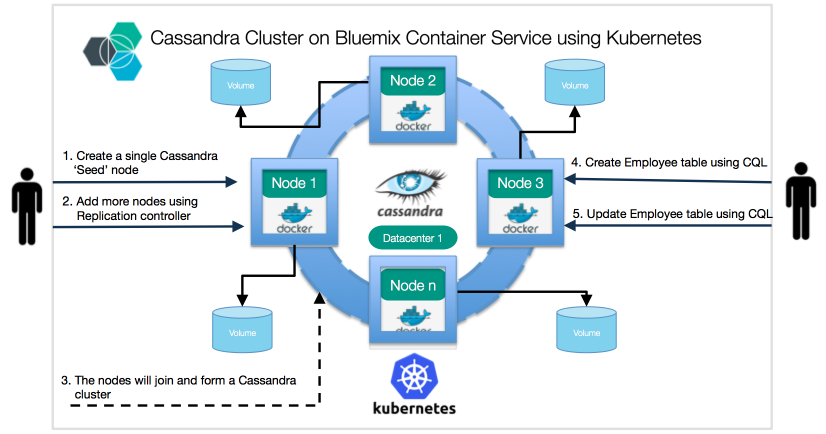
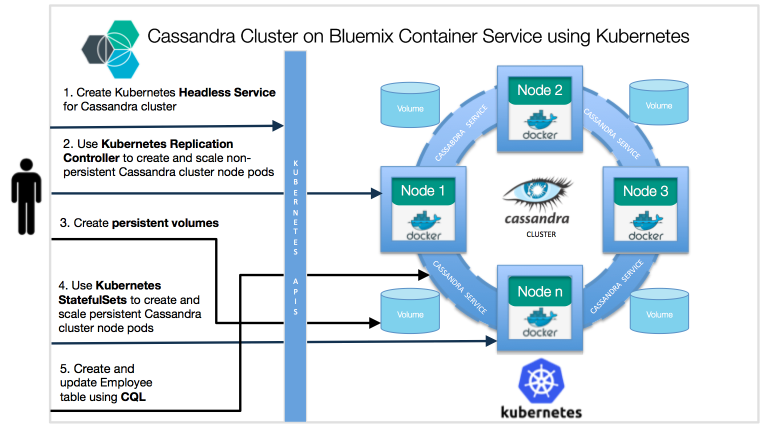
Organizing flow, and adding revised architecture diagram

diff --git a/README.md b/README.md
@@ -24,8 +24,8 @@ If you have not setup the Kubernetes cluster, please follow the [Creating a Kube
 
 This scenario provides instructions for the following tasks:
 
-- Create a Replication Controller to create and scale Cassandra cluster node pods
-- Create StatefulSets to create and scale Cassandra cluster node pods
+- Use Replication Controller to create and scale Cassandra cluster node pods
+- Use StatefulSets to create and scale Cassandra cluster node pods
 - Use Cassandra Query Language to create and update Employee table on Cassandra keyspace
 
 
@@ -70,6 +70,9 @@ You can create the headless service using the provided yaml file:
 $ kubectl create -f cassandra-service.yaml
 service "cassandra" created
 ```
+
+If you want to create persistent Cassandra cluster using StatefulSets, please jump to [Step 6](#6-create-local-volumes)
+
 # 2. Create a Replication Controller
 The Replication Controller is the one responsible for creating or deleting pods to ensure the number of Pods match its defined number in "replicas". The Pods' template are defined inside the Replication Controller. You can set how much resources will be used for each pod inside the template and limit the resources they can use. Here is the Replication Controller description:
 ```yaml
@@ -339,11 +342,16 @@ cqlsh> SELECT * FROM my_cassandra_keyspace.employee;
       3 |   Austin |      Bob | 9848022330 |   45000
 ```
 
-# 6. Create Local Volumes
-Before proceeding to the next steps, delete your Cassandra Replication Controller.
+You have you non-persistent Caasandra cluster ready!!
+
+If you want to reate persistent Cassandra clusters, pelase move forward. Before proceeding to the next steps, delete your Cassandra Replication Controller.
+
 ```bash
 $ kubectl delete rc cassandra
 ```
+
+# 6. Create Local Volumes
+
 To create persistent Cassandra nodes, we need to provision Persistent Volumes. There are two ways to provision PV's: **dynamically and statically**. 
 
 For **Dynamic** provisioning, you'll need to have **StorageClasses** and you'll need to have a **paid** Kubernetes cluster service. In this journey, we will use **Static** provisioning where we will create volumes manually using the provided yaml files. **You'll need to have the same number of Persistent Volumes as the number of your Cassandra nodes.**
